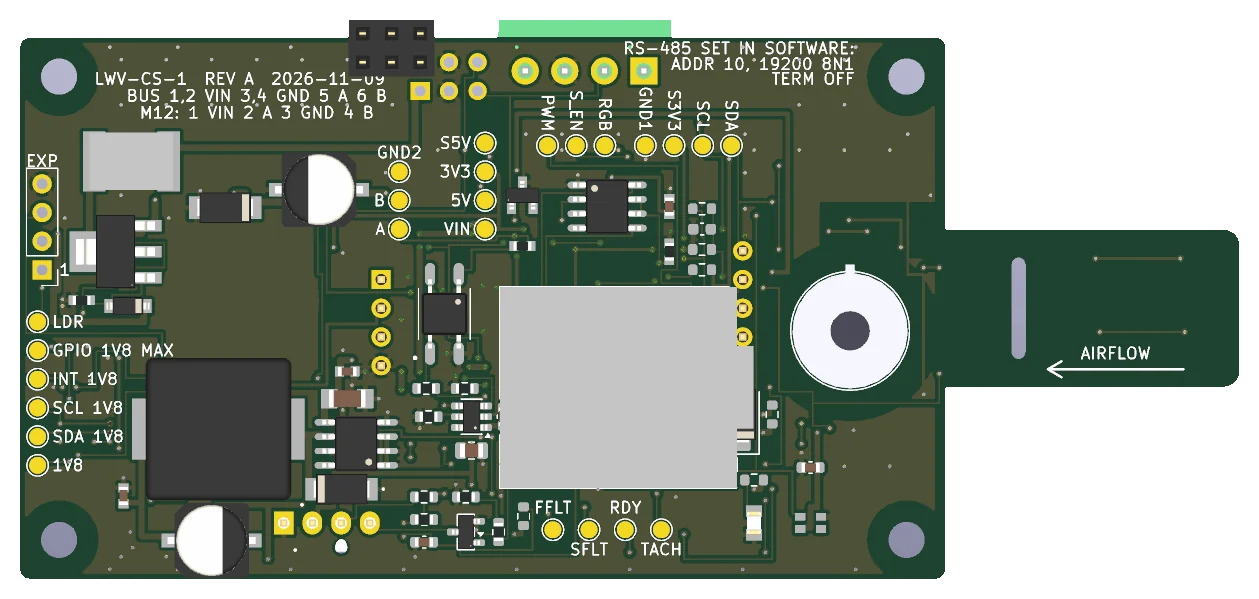
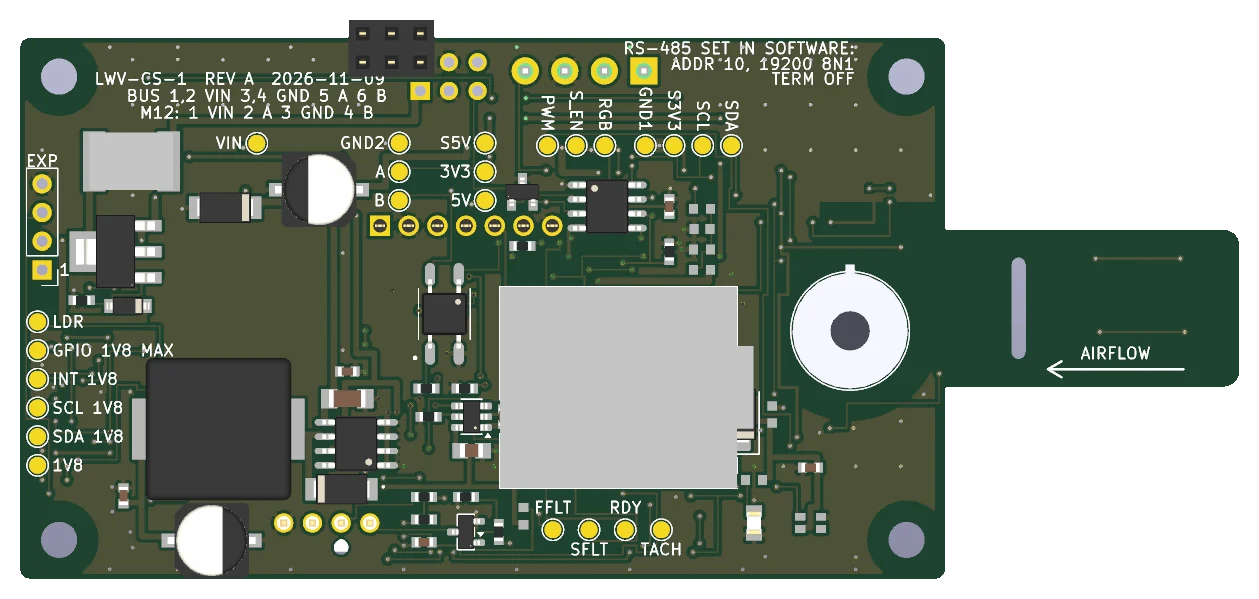
CS-1 overview: revision 5 - Sensirion SCD30 CO2 in a slotted bay, DPS368 barometer, 8-part case, boards in the JLC cart
New renders (case with the CO2 bay and its section, board rev 5), CO2/pressure rows, the SenseCAP comparison
(ZyAura ZG09 inside, 5 min vs 20 s), specs, status and pre-payment lists. White theme only. No prices.

diff --git a/docs/canopy-sensor/cs-1.html b/docs/canopy-sensor/cs-1.html
@@ -5,7 +5,7 @@
 <meta name="viewport" content="width=device-width,initial-scale=1,viewport-fit=cover">
 <title>LWV-CS-1 GCU Canopy Sensor</title>
 <meta name="robots" content="noindex,nofollow">
-<meta name="description" content="LWV-CS-1 GCU Canopy Sensor: dual-wavelength CO2, air temperature and humidity, leaf temperature, spectral light and air quality in a fan-drawn measuring box on the pod's M12 bus.">
+<meta name="description" content="LWV-CS-1 GCU Canopy Sensor: dual-channel CO2, air temperature and humidity, leaf temperature, spectral light and air quality in a fan-drawn measuring box on the pod's M12 bus.">
 <link rel="icon" href="/favicon.png">
 <link rel="preconnect" href="https://fonts.googleapis.com">
 <link rel="preconnect" href="https://fonts.gstatic.com" crossorigin>
@@ -145,12 +145,12 @@ footer .logo { height: 28px }
   </div>
 
   <div class="facts" role="list">
-    <div class="fact" role="listitem"><b>5000</b><span>ppm CO<sub>2</sub> range, dual-wavelength infrared</span></div>
+    <div class="fact" role="listitem"><b>10&nbsp;000</b><span>ppm CO<sub>2</sub> range, dual-channel infrared</span></div>
     <div class="fact" role="listitem"><b>±0.1</b><span>°C air temperature, typical</span></div>
     <div class="fact" role="listitem"><b>±1.0</b><span>% relative humidity, typical</span></div>
     <div class="fact" role="listitem"><b>35°</b><span>leaf-temperature view of the canopy</span></div>
     <div class="fact" role="listitem"><b>11</b><span>light channels: 8 colour bands, clear, near-IR, flicker</span></div>
-    <div class="fact" role="listitem"><b>0.7 W</b><span>from the pod's 24 V bus</span></div>
+    <div class="fact" role="listitem"><b>0.8 W</b><span>from the pod's 24 V bus</span></div>
   </div>
 
   <!-- 1 -->
@@ -216,12 +216,12 @@ footer .logo { height: 28px }
     <table class="tbl">
       <thead><tr><th>Reading</th><th>Sensor</th><th>Why this one</th></tr></thead>
       <tbody>
-        <tr><td>CO<sub>2</sub></td><td>E+E EE895, dual-wavelength infrared, 0–5000 ppm, ±(50 ppm + 3 % of reading)</td><td>Every flash of its lamp is measured at two wavelengths: one that CO<sub>2</sub> absorbs and one it does not. The second cancels lamp ageing, so it stays calibrated in a sealed room that is enriched all day and never sees fresh air. Temperature- and pressure-compensated in the module.</td></tr>
+        <tr><td>CO<sub>2</sub></td><td>Sensirion SCD30, dual-channel infrared, 400–10&nbsp;000 ppm, ±(30 ppm + 3 % of reading)</td><td>A second, reference channel tracks the lamp as it ages, so it stays calibrated in a sealed room that is enriched all day and never sees fresh air. Its automatic self-calibration stays off for that reason; corrections come from GCU Cloud. It reads within about 20 s and is stocked by JLC, so the boards come back fully built.</td></tr>
         <tr><td>Air temperature and humidity</td><td>Sensirion SHT45 with a filter membrane, ±0.1 °C, ±1.0 %RH typical</td><td>Sensirion's top grade, behind a membrane that keeps out dust, spray and spores, with a built-in heater that recovers it after long, very humid nights.</td></tr>
         <tr><td>Leaf temperature</td><td>Melexis MLX90614, infrared, 35° view</td><td>Reads the leaves without touching them. Leaf temperature gives leaf VPD, which is what the plant responds to, next to the air VPD.</td></tr>
         <tr><td>Light</td><td>ams AS7341: 8 colour bands plus clear, near-infrared and flicker, under a diffuser</td><td>Lights on and off, dimming steps, the red to far-red balance, flicker, and light leaks during the dark period. Shown as relative light until it is calibrated against a quantum sensor for each fixture type.</td></tr>
         <tr><td>Air quality</td><td>Sensirion SGP41, VOC and NOx index</td><td>A trend against the room's own normal (100 = normal): a pesticide or cleaning-product application, a sulfur burner, something burning.</td></tr>
-        <tr><td>Barometric pressure</td><td>Inside the EE895</td><td>Keeps the CO<sub>2</sub> reading right at altitude, and is reported too.</td></tr>
+        <tr><td>Barometric pressure</td><td>Infineon DPS368</td><td>Fed to the CO<sub>2</sub> sensor so its reading is right at altitude and in weather, and reported too. Built to tolerate water and humidity.</td></tr>
       </tbody>
     </table>
   </section>
@@ -231,11 +231,11 @@ footer .logo { height: 28px }
     <header><span class="kicker">How it measures</span><h2>Room air, drawn past the sensors in the shade</h2></header>
     <div class="cols">
       <p class="prose">A sensor sitting in a box under grow lights reads warm and dry: the box heats up, and every degree of error at 25 °C costs 3–4 % of relative humidity. Greenhouse climate computers solve this with an aspirated measuring box, and the CS-1 is one. A quiet 40 mm Noctua fan at the far end pulls room air in through louvres and a washable screen, past the sensors in a shaded upper duct, and out through a grille.</p>
-      <p class="prose">The circuit board is the shelf that splits the box in two. Above it the upper duct carries only sensors, in the order the air meets them: humidity and temperature first, on a slotted tongue of board that keeps the board's own warmth away, then air quality, then CO<sub>2</sub>. Below it the lower channel carries the processor and power supply, so all of their heat leaves with the exhaust. The leaf thermometer looks down through its own sealed sleeve, out of the air stream.</p>
+      <p class="prose">The circuit board is the shelf that splits the box in two. Above it the upper duct carries only sensors, in the order the air meets them: humidity and temperature first, on a slotted tongue of board that keeps the board's own warmth away, then air quality, then CO<sub>2</sub>. The CO<sub>2</sub> sensor sits in a slotted bay inside the duct: Sensirion wants it out of direct air flow, so the stream passes above and below it and the room air reaches it through the slots. Below the board the lower channel carries the processor and power supply, so all of their heat leaves with the exhaust. The leaf thermometer looks down through its own sealed sleeve, out of the air stream.</p>
     </div>
     <figure class="diagram">
       <div class="scroll">
-      <svg viewBox="0 0 1000 360" role="img" aria-label="Side section of the CS-1: air enters through louvres and a screen at the left. The circuit board is a shelf across the middle. Above it, the upper duct carries the SHT45 humidity and temperature sensor on a slotted tongue under a shield plate, then the SGP41 air-quality sensor, then the EE895 CO2 module, then the AS7341 light sensor in a tube under the diffuser in the lid. Below the board, the lower channel carries the infrared leaf thermometer in a sealed sleeve looking down through the floor, then the processor and the power supply. A fan at the right pulls both channels and exhausts through a grille.">
+      <svg viewBox="0 0 1000 360" role="img" aria-label="Side section of the CS-1: air enters through louvres and a screen at the left. The circuit board is a shelf across the middle. Above it, the upper duct carries the SHT45 humidity and temperature sensor on a slotted tongue under a shield plate, then the SGP41 air-quality sensor, then the SCD30 CO2 sensor in its slotted bay, then the AS7341 light sensor in a tube under the diffuser in the lid. Below the board, the lower channel carries the infrared leaf thermometer in a sealed sleeve looking down through the floor, then the processor and the power supply. A fan at the right pulls both channels and exhausts through a grille.">
         <defs>
           <marker id="arc2" viewBox="0 0 10 10" refX="9" refY="5" markerWidth="6" markerHeight="6" orient="auto-start-reverse"><path d="M0,0 L10,5 L0,10 z" fill="var(--cyan)"/></marker>
         </defs>
@@ -261,8 +261,8 @@ footer .logo { height: 28px }
         <rect class="box-acc" x="262" y="162" width="20" height="14" rx="2"/>
         <text class="t-m" x="272" y="148" text-anchor="middle">SGP41</text>
         <rect class="box-acc" x="330" y="118" width="230" height="58" rx="6"/>
-        <text class="t-b" x="445" y="144" text-anchor="middle">EE895 CO₂</text>
-        <text class="t-s" x="445" y="164" text-anchor="middle">soldered on header pins</text>
+        <text class="t-b" x="445" y="144" text-anchor="middle">SCD30 CO₂</text>
+        <text class="t-s" x="445" y="164" text-anchor="middle">in a slotted bay</text>
         <rect class="box" x="640" y="44" width="40" height="132"/>
         <rect x="634" y="34" width="52" height="8" rx="2" fill="var(--surface)" stroke="var(--cyan)" stroke-width="2"/>
         <text class="t-s" x="700" y="30">diffuser</text>
@@ -293,20 +293,21 @@ footer .logo { height: 28px }
       </div>
       <figcaption>Every heat source sits downstream of every air sensor. About 4 m³ of air an hour passes through; the half watt of electronics warms the exhaust by roughly 0.4 °C, after the sensors.</figcaption>
     </figure>
-    <figure class="map"><img src="img/cs1-section.webp" width="1460" height="714" alt="Cut-away render of the CS-1 through its length: louvres and screen at the left, the circuit board as a shelf in the middle, the CO2 module on its header pins in the upper duct, the black light tube under the diffuser, the cone-shaped leaf thermometer sleeve opening through the floor, the processor below the board, and the fan at the right"><figcaption>Cut-away of the production model along the airflow: louvres, screen, the board as a shelf, the CO<sub>2</sub> module in the upper duct, the black light tube under the diffuser, the leaf thermometer's sleeve through the floor, and the fan.</figcaption></figure>
+    <figure class="map"><img src="img/cs1-section.webp" width="1460" height="841" alt="Cut-away render of the CS-1 through its length: louvres and screen at the left, the circuit board as a shelf in the middle, the CO2 sensor in its slotted bay in the upper duct, the black light tube under the diffuser, the cone-shaped leaf thermometer sleeve opening through the floor, the processor below the board, and the fan at the right"><figcaption>Cut-away of the production model along the airflow: louvres, screen, the board as a shelf, the CO<sub>2</sub> sensor's bay in the upper duct, the black light tube under the diffuser, the leaf thermometer's sleeve through the floor, and the fan.</figcaption></figure>
+    <figure class="map"><img src="img/cs1-section-bay.webp" width="1448" height="924" alt="Cut-away across the CO2 bay: the SCD30 module mounted face-down on its socket above the board, a slotted floor tray under it and a slotted roof above it, with the duct air passing below the floor and above the roof"><figcaption>The CO<sub>2</sub> bay in section. The SCD30 hangs face-down on its socket between a slotted floor tray and a slotted roof; the duct air passes under the floor and over the roof, and reaches the sensor through the slots, out of the direct stream as Sensirion asks.</figcaption></figure>
   </section>
 
   <!-- 4 -->
   <section id="board">
     <header><span class="kicker">The board</span><h2>Built to be changed without a new board</h2></header>
     <p class="prose">Rev A is the prototype, so everything we expect to learn about in the test pods can be changed with a line in JLC's parts list or a reprinted case part instead of a new circuit board. Every part is fitted by JLC; nothing is soldered by hand.</p>
-    <figure class="map"><img src="img/cs1-board-iso.webp" width="1470" height="828" alt="3D render of the CS-1 circuit board at an angle: the white CO2 module standing on its header pins in the middle, the narrow sensor tongue at the front left, the fan and Qwiic connectors at the right edge"><figcaption>Rev A as routed. The CO<sub>2</sub> module stands on its header pins in the middle; the humidity sensor sits on the slotted tongue at the front, upstream of everything else.</figcaption></figure>
+    <figure class="map"><img src="img/cs1-board-iso.webp" width="1470" height="828" alt="3D render of the CS-1 circuit board at an angle: the CO2 sensor mounted face-down on its socket in the middle, the narrow sensor tongue at the front left, the fan and Qwiic connectors at the right edge"><figcaption>Rev A as routed. The CO<sub>2</sub> sensor sits face-down on its socket in the middle, where it can be unplugged and replaced; the humidity sensor sits on the slotted tongue at the front, upstream of everything else.</figcaption></figure>
     <div class="pair">
-      <figure class="map"><img src="img/cs1-board-top.webp" width="1259" height="599" alt="3D render of the CS-1 circuit board from the top: a long green board with a narrow tongue at one end carrying the humidity sensor, the CO2 module, the light sensor, the fan and Qwiic connectors and the LWV logo"><figcaption>Top: the duct side. The humidity sensor sits on the slotted tongue at the left; the CO<sub>2</sub> module is soldered on header pins at JLC; the terminal at the back edge takes the top connector's wires.</figcaption></figure>
+      <figure class="map"><img src="img/cs1-board-top.webp" width="1259" height="599" alt="3D render of the CS-1 circuit board from the top: a long green board with a narrow tongue at one end carrying the humidity sensor, the CO2 sensor, the barometer, the light sensor, the fan and Qwiic connectors and the LWV logo"><figcaption>Top: the duct side. The humidity sensor sits on the slotted tongue at the left; the CO<sub>2</sub> sensor plugs into its socket (fitted at JLC) next to the new barometer; the terminal at the back edge takes the top connector's wires.</figcaption></figure>
       <figure class="map"><img src="img/cs1-board-bottom.webp" width="1259" height="599" alt="3D render of the CS-1 circuit board from the bottom: the round leaf thermometer, the processor module, the power supply, the labelled test points and the cable socket; the processor plugs in with its parts facing away from the board"><figcaption>Bottom: the leaf thermometer, the plug-in processor (parts facing out, as on the GCU V5), the power supply and the socket the M12 connector card plugs into.</figcaption></figure>
     </div>
     <ul class="plain prose">
-      <li><b>Built by JLC, nothing soldered by hand.</b> The CO<sub>2</sub> module and the leaf thermometer are soldered at the factory. The one part we plug in is the processor, Seeed's XIAO with factory-fitted pins, the same way round as on the GCU V5.</li>
+      <li><b>Built by JLC, nothing soldered by hand.</b> The CO<sub>2</sub> sensor (on a socket, so it can be swapped) and the leaf thermometer are fitted at the factory. The one part we plug in is the processor, Seeed's XIAO with factory-fitted pins, the same way round as on the GCU V5.</li>
       <li><b>Sensors on their own switched power.</b> The firmware can power-cycle a stuck sensor and clear a stuck bus remotely; every restart of the processor also restarts the sensors cleanly.</li>
       <li><b>A spare position for the humidity sensor</b> further upstream, a <b>Qwiic connector</b> for a future external probe, spare processor pins, and 24 labelled test points.</li>
       <li><b>Any 5 V PWM fan fits</b> the standard 4-pin header, behind its own current limit, so a jammed fan cannot take the board down. The header is on the top side: the fan unplugs with the lid off.</li>
@@ -322,7 +323,7 @@ footer .logo { height: 28px }
     <div class="cols">
       <div class="prose" style="display:grid;gap:10px">
         <h3>Calibration from the cloud</h3>
-        <p>Today's sensor is calibrated by opening its cover, carrying it outdoors and holding a button. The CS-1's CO<sub>2</sub> correction is sent from GCU Cloud through the GCU and written into the module, where it is kept. The dual-wavelength design means it should rarely be needed.</p>
+        <p>Today's sensor is calibrated by opening its cover, carrying it outdoors and holding a button. The CS-1's CO<sub>2</sub> correction is sent from GCU Cloud through the GCU and kept in the CS-1. The dual-channel design means it should rarely be needed.</p>
       </div>
       <div class="prose" style="display:grid;gap:10px">
         <h3>Health you can see</h3>
@@ -334,19 +335,19 @@ footer .logo { height: 28px }
   <!-- 6 -->
   <section id="case">
     <header><span class="kicker">The case</span><h2>A printed, hanging measuring box</h2></header>
-    <p class="prose">The case is printed in-house in white ASA, which reflects the grow lights and stands up to UV and humidity. Seven parts print on our printer without supports. It hangs from its M12 cable: the connector sits in a short turret on the lid, right over the box's centre of gravity, so it hangs level, and the sensor duct underneath stays clear. Or it screws flat to a wall with two keyholes. The screen slides out through the floor with the box still up. Gaskets are EPDM foam: nothing in the box is silicone, which can poison gas sensors.</p>
+    <p class="prose">The case is printed in-house in white ASA, which reflects the grow lights and stands up to UV and humidity. Eight parts print on our printer without supports, including a small slotted tray that slides in under the CO<sub>2</sub> sensor. It hangs from its M12 cable: the connector sits in a short turret on the lid, right over the box's centre of gravity, so it hangs level, and the sensor duct underneath stays clear. Or it screws flat to a wall with two keyholes. The screen slides out through the floor with the box still up. Gaskets are EPDM foam: nothing in the box is silicone, which can poison gas sensors.</p>
     <div class="pair">
       <figure class="map"><img src="img/cs1-hanging.webp" width="517" height="600" alt="Render of the CS-1 hanging from its M12 drop cable: the cable comes straight down into the connector turret on the lid"><figcaption>Hanging from its M12 drop cable. The connector is over the centre of gravity, so the box hangs level; the height is set with the cable.</figcaption></figure>
       <figure class="map"><img src="img/cs1-wall.webp" width="1292" height="924" alt="Render of the CS-1 on a wall: its plain side against the wall, the side with the BUS IN and BUS OUT connectors and the Qwiic knock-out facing the room"><figcaption>On a wall: the plain side hangs on two screws in keyholes (a printed drill template comes with it); BUS IN and BUS OUT face the room.</figcaption></figure>
     </div>
     <div class="pair">
       <figure class="map"><img src="img/cs1-exploded.webp" width="671" height="659" alt="Exploded render of the CS-1 case: the lid and the diffuser bezel lifted above the board, the base with the fan at its end, and the screen cartridge slid down out of the floor"><figcaption>Exploded: bezel, lid, board in the base, fan, and the screen cartridge that slides down out of the floor.</figcaption></figure>
-      <figure class="map"><img src="img/cs1-base-open.webp" width="1081" height="905" alt="Render of the CS-1 base with the lid removed, showing the board on its standoffs, the CO2 module in the duct, the fan at the end and the M12 connector card on the side wall"><figcaption>Lid off: the board on its four standoffs, the M12 card on the side wall, the fan at the exhaust end.</figcaption></figure>
+      <figure class="map"><img src="img/cs1-base-open.webp" width="1081" height="905" alt="Render of the CS-1 base with the lid removed, showing the board on its standoffs, the CO2 sensor in its bay, the fan at the end and the M12 connector card on the side wall"><figcaption>Lid off: the board on its four standoffs, the M12 card on the side wall, the fan at the exhaust end.</figcaption></figure>
     </div>
     <table class="tbl">
       <tbody>
         <tr><td>Size</td><td>143 × 64 × 57 mm; the connector turret rises 13.5 mm above the lid.</td></tr>
-        <tr><td>Material</td><td>White ASA, 7 printed parts; the light tube in black ASA so no light leaks through its wall.</td></tr>
+        <tr><td>Material</td><td>White ASA, 8 printed parts; the light tube in black ASA so no light leaks through its wall.</td></tr>
         <tr><td>Hanging</td><td>From its M12 drop cable, plugged into the top connector over the centre of gravity; hangs level, raised with the cable as the crop grows.</td></tr>
         <tr><td>Wall</td><td>Two keyholes in the plain side for M4 or #8 pan-head screws, 70 mm apart; closed pockets, so no air leaks in.</td></tr>
         <tr><td>Connections</td><td>M12 on top (female) to hang from; M12 IN (female) and OUT (male) on the side wall, the same connector card as the IR blaster.</td></tr>
@@ -361,8 +362,9 @@ footer .logo { height: 28px }
     <table class="tbl">
       <thead><tr><th></th><th>SenseCAP S-CO2-03 (today)</th><th>LWV-CS-1</th></tr></thead>
       <tbody>
-        <tr><td>CO<sub>2</sub></td><td>Infrared, ±(50 ppm + 3 %)</td><td>Dual-wavelength infrared, ±(50 ppm + 3 %), ageing- and pressure-compensated</td></tr>
-        <tr><td>Calibration</td><td>Open it, carry it outdoors, hold a button</td><td>From GCU Cloud, written into the module</td></tr>
+        <tr><td>CO<sub>2</sub></td><td>ZyAura ZG09 infrared module, ±(50 ppm + 3 %), sealed inside the box</td><td>Sensirion SCD30 dual-channel infrared, ±(30 ppm + 3 %), pressure-compensated, in a bay off the moving air</td></tr>
+        <tr><td>Response</td><td>About 5 minutes to settle (diffusion into a closed box)</td><td>About 20 seconds</td></tr>
+        <tr><td>Calibration</td><td>Open it, carry it outdoors, hold a button</td><td>From GCU Cloud</td></tr>
         <tr><td>Air temperature / humidity</td><td>±0.2 °C / ±1.8 %RH, passive</td><td>±0.1 °C / ±1.0 %RH, fan-drawn and shaded</td></tr>
         <tr><td>Leaf temperature and leaf VPD</td><td>—</td><td>Yes</td></tr>
         <tr><td>Light at the canopy, dark-period leaks</td><td>—</td><td>Yes</td></tr>
@@ -398,14 +400,14 @@ footer .logo { height: 28px }
     <header><span class="kicker">Specifications</span><h2>Rev A at a glance</h2></header>
     <table class="tbl">
       <tbody>
-        <tr><td>Power</td><td>24 V DC from the M12 bus, about 0.7 W. Fused, reverse-polarity protected, surge clamped.</td></tr>
-        <tr><td>Bus</td><td>RS-485, Modbus RTU. Address, baud rate (9600–115 200), parity, stop bits, reply delay and the 120 Ω terminator are all set in software; factory setting address 10, 19 200 8N1, terminator off. A new setting that nothing confirms reverts by itself.</td></tr>
-        <tr><td>CO<sub>2</sub></td><td>0–5000 ppm, ±(50 ppm + 3 % of reading), dual-wavelength infrared, temperature and pressure compensated.</td></tr>
-        <tr><td>Air</td><td>±0.1 °C, ±1.0 %RH typical; dew point and VPD; barometric pressure.</td></tr>
+        <tr><td>Power</td><td>24 V DC from the M12 bus, about 0.8 W. Fused, reverse-polarity protected, surge clamped.</td></tr>
+        <tr><td>Bus</td><td>RS-485, Modbus RTU. Address, baud rate (9600–115&nbsp;200), parity, stop bits, reply delay and the 120 Ω terminator are all set in software; factory setting address 10, 19&nbsp;200 8N1, terminator off. A new setting that nothing confirms reverts by itself.</td></tr>
+        <tr><td>CO<sub>2</sub></td><td>400–10&nbsp;000 ppm, ±(30 ppm + 3 % of reading), dual-channel infrared (Sensirion SCD30), pressure-compensated from the on-board barometer; about 20 s response.</td></tr>
+        <tr><td>Air</td><td>±0.1 °C, ±1.0 %RH typical; dew point and VPD; barometric pressure (Infineon DPS368).</td></tr>
         <tr><td>Leaf temperature</td><td>Infrared, 35° view, ±0.5 °C, emissivity set for leaves.</td></tr>
         <tr><td>Light</td><td>8 colour bands plus clear, near-infrared and flicker; relative light, on/off, dimming, dark-period leak flag.</td></tr>
         <tr><td>Air quality</td><td>VOC and NOx index, 1–500.</td></tr>
-        <tr><td>Aspiration</td><td>Noctua NF-A4x10 5V PWM fan, speed monitored; about 1.9 m/s expected past the sensors at the default speed (1.0 m/s required).</td></tr>
+        <tr><td>Aspiration</td><td>Noctua NF-A4x10 5V PWM fan, speed monitored; about 1.4 m/s expected past the humidity sensor at the default speed (1.0 m/s required; measured in the pilot).</td></tr>
         <tr><td>Processor</td><td>Seeed XIAO RP2350 with factory-fitted pins, plugged in; firmware updates over RS-485.</td></tr>
         <tr><td>Mounting</td><td>Hangs from its M12 cable, or screws to a wall.</td></tr>
         <tr><td>Board</td><td>108 × 48 mm including a 26 mm sensor tongue, 2 layers, ENIG finish (lead-free), acrylic conformal coat with the sensors masked.</td></tr>
@@ -417,31 +419,31 @@ footer .logo { height: 28px }
   <!-- 10 -->
   <section id="status">
     <header><span class="kicker">Where it stands</span><h2>Rev A design status</h2></header>
-    <p class="prose">Rev A is designed end to end. Nothing has been ordered, printed or flashed yet.</p>
+    <p class="prose">Rev A is designed end to end and its boards are in the JLC cart for 3 sensors, waiting for payment. Nothing has been paid, printed or flashed yet. Revision 5 of the design (November 9) replaced the original E+E CO<sub>2</sub> module, which JLC cannot source, with the Sensirion SCD30, and added a barometer.</p>
     <table class="tbl">
       <thead><tr><th>Part</th><th>Where it is</th><th>What has been checked</th></tr></thead>
       <tbody>
-        <tr><td>Circuit board</td><td>Designed and routed, ready to order</td><td>Electrical and design-rule checks clean (0 errors, 0 unconnected); 456 automatic checks against the design brief, including every pin of the sensors, the processor's orientation and the leaf thermometer's copper-free island; 91 parts, every one fitted by JLC except the plug-in processor, all in stock at JLC on 2026-11-09.</td></tr>
-        <tr><td>Case</td><td>7 parts modelled, ready to print</td><td>71 of 71 fit checks: board, connectors, gaskets, the CO<sub>2</sub> module's air gap, the leaf thermometer's view, light paths to the humidity and light sensors, the hang balance from the model's weights, the connector turret and the wall keyholes. No supports needed.</td></tr>
-        <tr><td>CS-1 firmware 0.2.0</td><td>Written and building</td><td>10 test suites pass on the bench computer, plus 20 end-to-end tests of the setup and update tools against a simulated unit: software bus settings with automatic fallback, moving a unit by serial number, the update image check. Not yet run on hardware.</td></tr>
+        <tr><td>Circuit board</td><td>In the JLC cart: 5 boards, 3 assembled</td><td>Electrical and design-rule checks clean (0 errors, 0 unconnected); 510 automatic checks against the design brief, including every pin of the sensors, the processor's orientation and the leaf thermometer's copper-free island; rebuilt in EasyEDA and checked again against JLC's own footprints (491 checks, copper identical); every part fitted by JLC except the plug-in processor, all in stock on 2026-11-09. Part orientations checked in JLC's placement preview.</td></tr>
+        <tr><td>Case</td><td>8 parts modelled, ready to print</td><td>77 of 77 fit checks: board, connectors, gaskets, the CO<sub>2</sub> bay and its slide-in tray, the leaf thermometer's view, light paths to the humidity and light sensors, the hang balance from the model's weights, the connector turret and the wall keyholes. No supports needed.</td></tr>
+        <tr><td>CS-1 firmware 0.3.0</td><td>Written and building</td><td>All host test suites pass, plus 20 end-to-end tests of the setup and update tools against a simulated unit: the SCD30 and barometer drivers (checked against Sensirion's published examples), software bus settings with automatic fallback, moving a unit by serial number, the update image check. Not yet run on hardware.</td></tr>
         <tr><td>GCU firmware</td><td>CS-1 support on a development branch</td><td>Builds. Sensor type per slot with auto-detection, the monitor-only switch, the remote CO<sub>2</sub> correction and the new readings. Not yet on a lab unit.</td></tr>
         <tr><td>GCU Cloud and the app</td><td>To do</td><td>Sensor-type and monitor-only settings, the CO<sub>2</sub> correction button, charts for the new readings.</td></tr>
       </tbody>
     </table>
     <div class="cols">
       <div class="prose" style="display:grid;gap:10px">
-        <h3>Before the boards are ordered</h3>
+        <h3>Before and right after paying</h3>
         <ul class="plain">
-          <li>Order the leaf thermometers into JLC's parts library now (LCSC C7501763; stock fell to 42). JLC keeps them for our assembly order.</li>
-          <li>Quote and lead time for the EE895 module; JLC buys it through Global Sourcing, or we ship modules to JLC.</li>
-          <li>Check the CO<sub>2</sub> module's pin positions against E+E's drawing or a real module. It is the one dimension taken from the manual's figures rather than measured.</li>
-          <li>Final part-orientation check in JLC's placement preview.</li>
+          <li>The 3 connector cards (the IR blaster's card) go in the same order.</li>
+          <li>Buy the parts JLC does not sell: the XIAO processors with factory-fitted pins, the top M12 connectors and nuts, the fans, heat-set inserts, screws, foam, PTFE diffuser sheet and mesh.</li>
+          <li>Within 72 hours of payment, check JLC's placement photos: the bottom-side parts, the leaf thermometer's tab and the CO<sub>2</sub> sensor stack.</li>
+          <li>For larger runs, pre-order the leaf thermometers and CO<sub>2</sub> sensors into JLC's parts library; both have modest stock.</li>
         </ul>
       </div>
       <div class="prose" style="display:grid;gap:10px">
         <h3>Then</h3>
         <ul class="plain">
-          <li>5–10 boards and cases, built and brought up in the lab; weigh the first unit and trim the top connector's position so it hangs level.</li>
+          <li>3 sensors built and brought up in the lab; weigh the first and trim the top connector's position so it hangs level; measure the air speed past the humidity sensor.</li>
           <li>The GCU firmware on a lab unit with a CS-1 on its bus.</li>
           <li>The first test pods, monitor only, beside today's sensor.</li>
         </ul>
